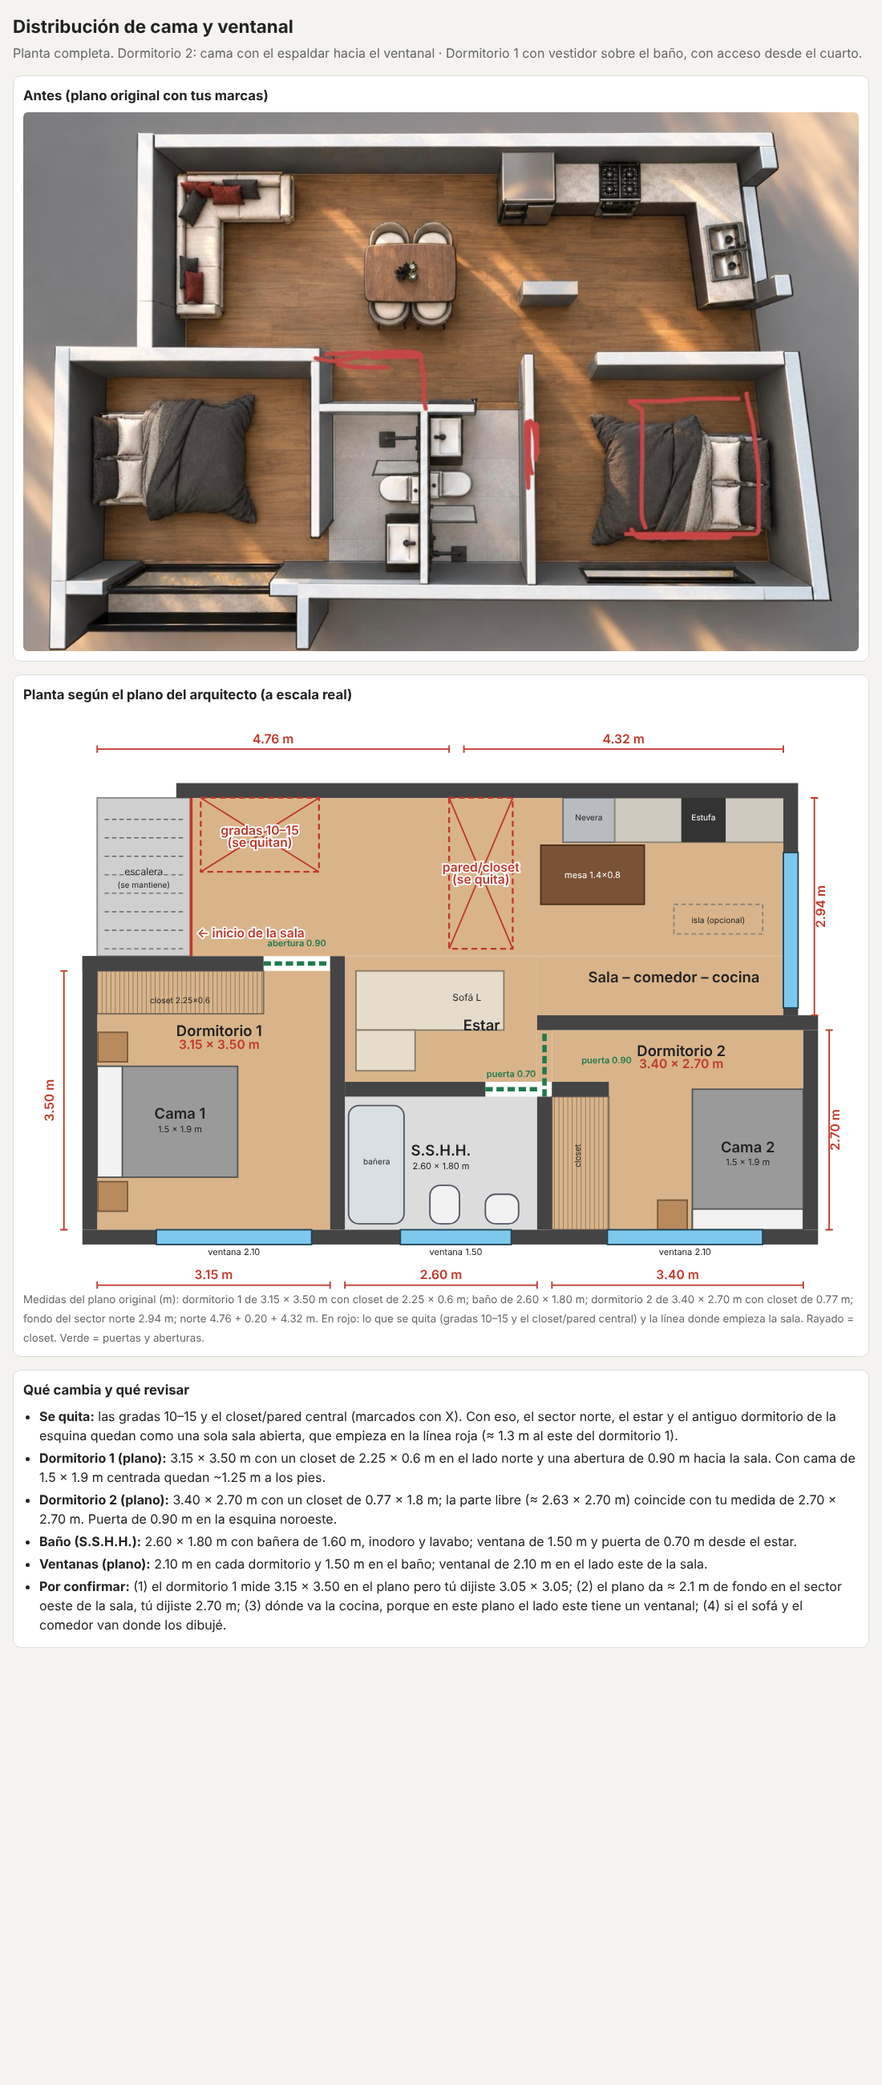
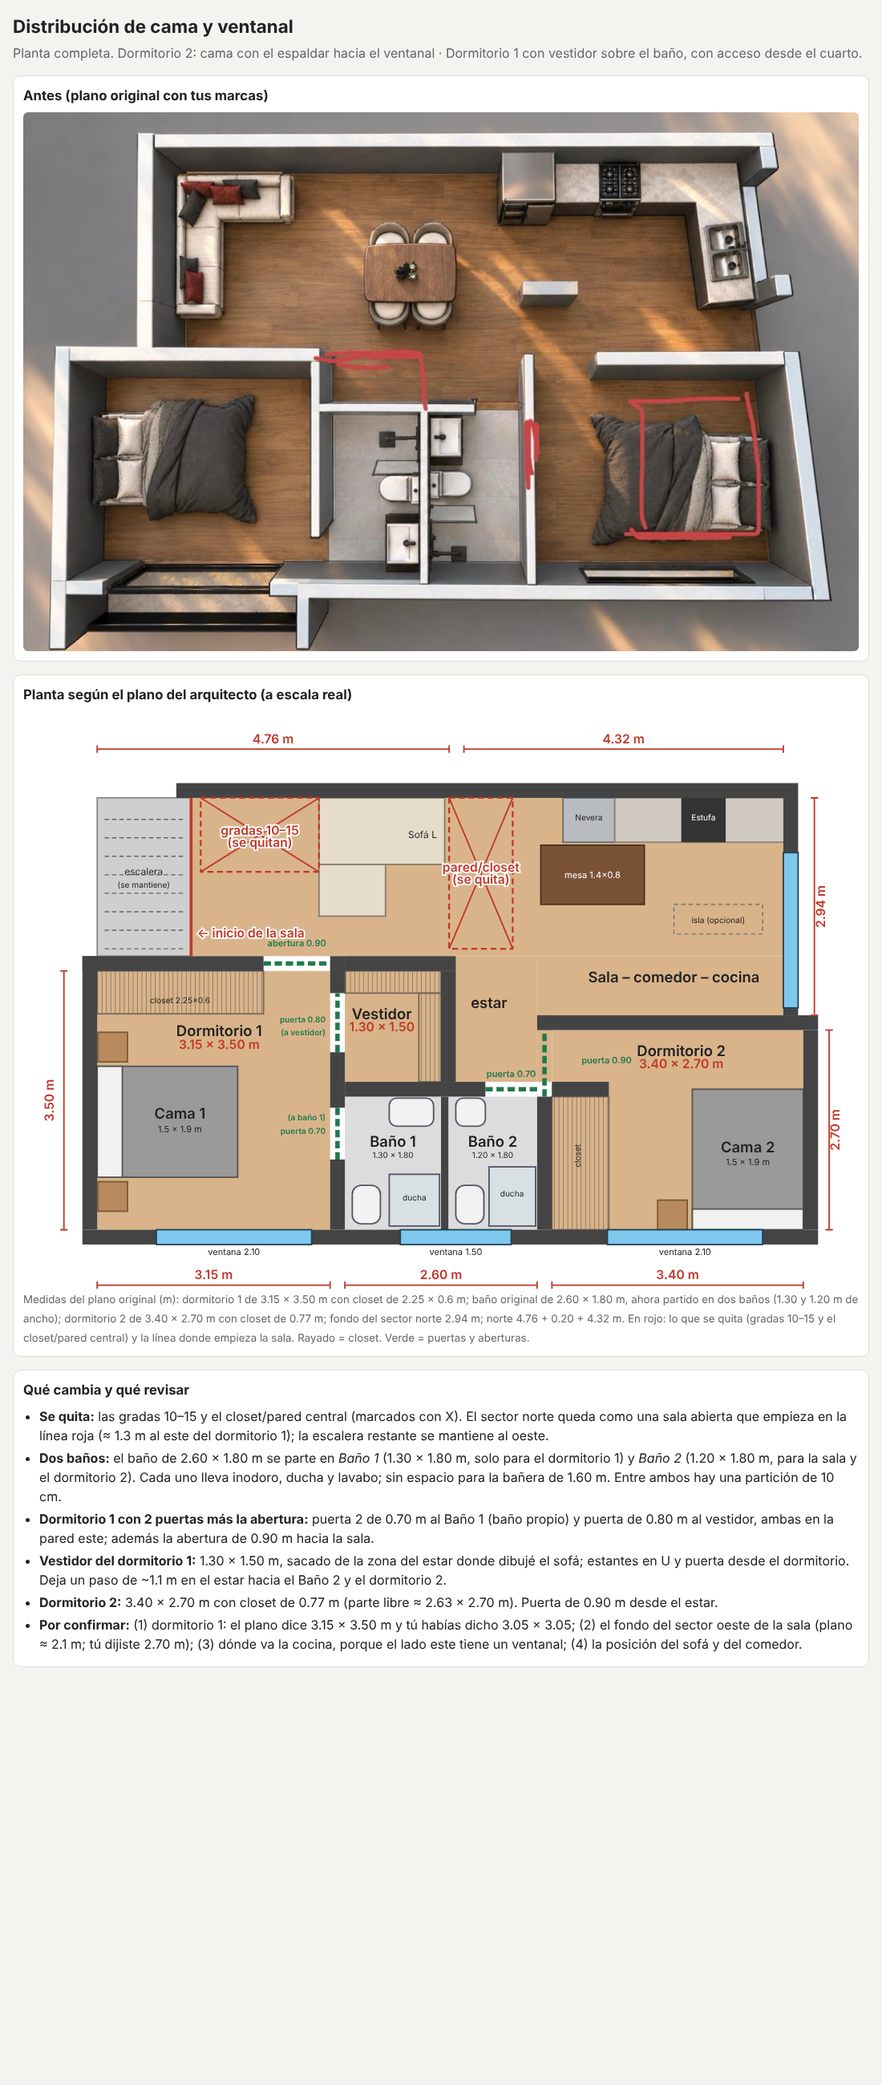
Dos baños, vestidor del dormitorio 1 desde la zona del sofá y segunda puerta del dormitorio 1 al baño
Claude-Session: https://claude.ai/code/session_01FjBeNf4WjH2KP9gBJAno4x

Changed region(s): [[0.0309, 0.6231, 0.9582, 0.81], [0.34, 0.3738, 0.5873, 0.5919]]

diff --git a/index.html b/index.html
@@ -56,7 +56,8 @@
     <svg viewBox="-100 0 1130 780" role="img" aria-label="Planta a escala real según el plano del arquitecto">
       <defs><pattern id="ach" width="6" height="6" patternUnits="userSpaceOnUse"><path d="M0 0 L0 6" stroke="#7a6a5a" stroke-width="1.6"/></pattern></defs>
       <rect x="0" y="350" width="315" height="350" fill="var(--floor)" />
-      <rect x="335" y="520" width="260" height="180" fill="var(--bath)" />
+      <rect x="335" y="520" width="130" height="180" fill="var(--bath)" />
+      <rect x="475" y="520" width="120" height="180" fill="var(--bath)" />
       <rect x="615" y="430" width="340" height="270" fill="var(--floor)" />
       <rect x="127" y="116" width="801" height="214" fill="var(--floor)" />
       <rect x="335" y="330" width="260" height="170" fill="var(--floor)" />
@@ -84,9 +85,9 @@
       <text x="880" y="595" text-anchor="middle" font-size="16" class="lbl" >Cama 2</text>
       <text x="880" y="613" text-anchor="middle" font-size="12" >1.5 × 1.9 m</text>
       <rect x="758" y="660" width="40" height="40" fill="#b98a5e" stroke="#7a5a3a" stroke-width="2" />
-      <rect x="350" y="350" width="200" height="80" fill="#e6dccb" stroke="#8a7d6a" stroke-width="2" />
-      <rect x="350" y="430" width="80" height="55" fill="#e6dccb" stroke="#8a7d6a" stroke-width="2" />
-      <text x="500" y="390" text-anchor="middle" font-size="13" >Sofá L</text>
+      <rect x="300" y="116" width="170" height="90" fill="#e6dccb" stroke="#8a7d6a" stroke-width="2" />
+      <rect x="300" y="206" width="90" height="70" fill="#e6dccb" stroke="#8a7d6a" stroke-width="2" />
+      <text x="440" y="170" text-anchor="middle" font-size="13" >Sofá L</text>
       <rect x="600" y="180" width="140" height="80" fill="#7a5236" stroke="#4a2f1a" stroke-width="2" />
       <text x="670" y="225" text-anchor="middle" font-size="12" style="fill:#fff">mesa 1.4×0.8</text>
       <rect x="630" y="116" width="70" height="60" fill="#b8bcc0" stroke="#6b7076" stroke-width="2" />
@@ -96,17 +97,28 @@
       <text x="820" y="146" text-anchor="middle" font-size="11" style="fill:#fff">Estufa</text>
       <rect x="780" y="260" width="120" height="40" fill="none" stroke="#8a847a" stroke-width="2" stroke-dasharray="6 4"/>
       <text x="840" y="285" text-anchor="middle" font-size="11" >isla (opcional)</text>
-      <rect x="340" y="532" width="75" height="160" fill="#d8e0e4" stroke="#556" stroke-width="2" rx="14"/>
-      <text x="378" y="612" text-anchor="middle" font-size="11" >bañera</text>
-      <rect x="450" y="640" width="40" height="52" fill="#f2f2f2" stroke="#556" stroke-width="2" rx="14"/>
-      <rect x="525" y="652" width="45" height="40" fill="#f2f2f2" stroke="#556" stroke-width="2" rx="14"/>
+      <rect x="345" y="640" width="38" height="52" fill="#f2f2f2" stroke="#556" stroke-width="2" rx="12"/>
+      <rect x="395" y="625" width="68" height="70" fill="#d8e0e4" stroke="#556" stroke-width="2" />
+      <text x="429" y="660" text-anchor="middle" font-size="11" >ducha</text>
+      <rect x="395" y="522" width="60" height="38" fill="#f2f2f2" stroke="#556" stroke-width="2" rx="10"/>
+      <rect x="485" y="640" width="38" height="52" fill="#f2f2f2" stroke="#556" stroke-width="2" rx="12"/>
+      <rect x="530" y="615" width="63" height="80" fill="#d8e0e4" stroke="#556" stroke-width="2" />
+      <text x="561" y="655" text-anchor="middle" font-size="11" >ducha</text>
+      <rect x="485" y="522" width="40" height="38" fill="#f2f2f2" stroke="#556" stroke-width="2" rx="10"/>
+      <rect x="335" y="350" width="130" height="30" fill="url(#ach)" stroke="#7a6a5a" stroke-width="2"/>
+      <rect x="435" y="380" width="30" height="120" fill="url(#ach)" stroke="#7a6a5a" stroke-width="2"/>
       <rect x="0" y="350" width="225" height="58" fill="url(#ach)" stroke="#7a6a5a" stroke-width="2"/>
       <text x="112" y="394" text-anchor="middle" font-size="11" >closet 2.25×0.6</text>
       <rect x="615" y="520" width="77" height="180" fill="url(#ach)" stroke="#7a6a5a" stroke-width="2"/>
       <rect x="-20" y="700" width="995" height="20" fill="var(--wall)" />
       <rect x="-20" y="330" width="20" height="370" fill="var(--wall)" />
       <rect x="-20" y="330" width="245" height="20" fill="var(--wall)" />
-      <rect x="315" y="330" width="20" height="370" fill="var(--wall)" />
+      <rect x="315" y="605" width="20" height="95" fill="var(--wall)" />
+      <rect x="315" y="460" width="20" height="75" fill="var(--wall)" />
+      <rect x="315" y="330" width="20" height="50" fill="var(--wall)" />
+      <rect x="465" y="520" width="10" height="180" fill="var(--wall)" />
+      <rect x="335" y="330" width="150" height="20" fill="var(--wall)" />
+      <rect x="465" y="350" width="20" height="150" fill="var(--wall)" />
       <rect x="335" y="500" width="190" height="20" fill="var(--wall)" />
       <rect x="595" y="520" width="20" height="180" fill="var(--wall)" />
       <rect x="615" y="500" width="77" height="20" fill="var(--wall)" />
@@ -134,20 +146,30 @@
       <line x1="225" y1="340" x2="315" y2="340" stroke="var(--ok)" stroke-width="6" stroke-dasharray="10 5"/>
       <line x1="525" y1="510" x2="595" y2="510" stroke="var(--ok)" stroke-width="6" stroke-dasharray="10 5"/>
       <line x1="605" y1="520" x2="605" y2="430" stroke="var(--ok)" stroke-width="6" stroke-dasharray="10 5"/>
+      <line x1="325" y1="605" x2="325" y2="535" stroke="var(--ok)" stroke-width="6" stroke-dasharray="10 5"/>
+      <line x1="325" y1="460" x2="325" y2="380" stroke="var(--ok)" stroke-width="6" stroke-dasharray="10 5"/>
       <text x="270" y="317" text-anchor="middle" font-size="12" style="fill:var(--ok)" font-weight="600">abertura 0.90</text>
       <text x="560" y="493" text-anchor="middle" font-size="12" style="fill:var(--ok)" font-weight="600">puerta 0.70</text>
       <text x="655" y="475" text-anchor="start" font-size="12" style="fill:var(--ok)" font-weight="600">puerta 0.90</text>
+      <text x="309" y="570" text-anchor="end" font-size="11" style="fill:var(--ok)" font-weight="600">puerta 0.70</text>
+      <text x="309" y="420" text-anchor="end" font-size="11" style="fill:var(--ok)" font-weight="600">puerta 0.80</text>
+      <text x="309" y="552" text-anchor="end" font-size="11" style="fill:var(--ok)" font-weight="600">(a baño 1)</text>
+      <text x="309" y="437" text-anchor="end" font-size="11" style="fill:var(--ok)" font-weight="600">(a vestidor)</text>
       <line x1="127" y1="330" x2="127" y2="116" stroke="var(--new)" stroke-width="4"/>
       <text x="135" y="305" text-anchor="start" font-size="12" class="dimt" style="paint-order:stroke;stroke:#fff;stroke-width:4px">← inicio de la sala</text>
       <text x="165" y="438" text-anchor="middle" font-size="17" class="lbl" >Dormitorio 1</text>
       <text x="165" y="456" text-anchor="middle" font-size="14" class="dimt" >3.15 × 3.50 m</text>
-      <text x="465" y="600" text-anchor="middle" font-size="15" class="lbl" >S.S.H.H.</text>
-      <text x="465" y="618" text-anchor="middle" font-size="12" >2.60 × 1.80 m</text>
+      <text x="400" y="588" text-anchor="middle" font-size="14" class="lbl" >Baño 1</text>
+      <text x="400" y="603" text-anchor="middle" font-size="11" >1.30 × 1.80</text>
+      <text x="535" y="588" text-anchor="middle" font-size="14" class="lbl" >Baño 2</text>
+      <text x="535" y="603" text-anchor="middle" font-size="11" >1.20 × 1.80</text>
+      <text x="385" y="415" text-anchor="middle" font-size="14" class="lbl" >Vestidor</text>
+      <text x="385" y="432" text-anchor="middle" font-size="11" class="dimt" >1.30 × 1.50</text>
       <text x="790" y="465" text-anchor="middle" font-size="17" class="lbl" >Dormitorio 2</text>
       <text x="790" y="482" text-anchor="middle" font-size="14" class="dimt" >3.40 × 2.70 m</text>
       <text x="654" y="600" text-anchor="middle" font-size="11" transform="rotate(-90 654 600)">closet</text>
       <text x="240" y="340" text-anchor="middle" font-size="1" ></text>
-      <text x="520" y="430" text-anchor="middle" font-size="17" class="lbl" >Estar</text>
+      <text x="530" y="400" text-anchor="middle" font-size="14" class="lbl" >estar</text>
       <text x="780" y="365" text-anchor="middle" font-size="17" class="lbl" >Sala – comedor – cocina</text>
       <line x1="0" y1="775" x2="315" y2="775" class="dim" />
       <line x1="0" y1="780" x2="0" y2="770" class="dim" />
@@ -182,18 +204,18 @@
       <line x1="965" y1="116" x2="975" y2="116" class="dim" />
       <text transform="translate(984,263.0) rotate(-90)" text-anchor="middle" font-size="14" class="dimt">2.94 m</text>
     </svg>
-    <small>Medidas del plano original (m): dormitorio 1 de 3.15 × 3.50 m con closet de 2.25 × 0.6 m; baño de 2.60 × 1.80 m; dormitorio 2 de 3.40 × 2.70 m con closet de 0.77 m; fondo del sector norte 2.94 m; norte 4.76 + 0.20 + 4.32 m. En rojo: lo que se quita (gradas 10–15 y el closet/pared central) y la línea donde empieza la sala. Rayado = closet. Verde = puertas y aberturas.</small>
+    <small>Medidas del plano original (m): dormitorio 1 de 3.15 × 3.50 m con closet de 2.25 × 0.6 m; baño original de 2.60 × 1.80 m, ahora partido en dos baños (1.30 y 1.20 m de ancho); dormitorio 2 de 3.40 × 2.70 m con closet de 0.77 m; fondo del sector norte 2.94 m; norte 4.76 + 0.20 + 4.32 m. En rojo: lo que se quita (gradas 10–15 y el closet/pared central) y la línea donde empieza la sala. Rayado = closet. Verde = puertas y aberturas.</small>
   </section>
 
     <section class="card">
     <h2>Qué cambia y qué revisar</h2>
     <ul>
-      <li><b>Se quita:</b> las gradas 10–15 y el closet/pared central (marcados con X). Con eso, el sector norte, el estar y el antiguo dormitorio de la esquina quedan como una sola sala abierta, que empieza en la línea roja (≈ 1.3 m al este del dormitorio 1).</li>
-      <li><b>Dormitorio 1 (plano):</b> 3.15 × 3.50 m con un closet de 2.25 × 0.6 m en el lado norte y una abertura de 0.90 m hacia la sala. Con cama de 1.5 × 1.9 m centrada quedan ~1.25 m a los pies.</li>
-      <li><b>Dormitorio 2 (plano):</b> 3.40 × 2.70 m con un closet de 0.77 × 1.8 m; la parte libre (≈ 2.63 × 2.70 m) coincide con tu medida de 2.70 × 2.70 m. Puerta de 0.90 m en la esquina noroeste.</li>
-      <li><b>Baño (S.S.H.H.):</b> 2.60 × 1.80 m con bañera de 1.60 m, inodoro y lavabo; ventana de 1.50 m y puerta de 0.70 m desde el estar.</li>
-      <li><b>Ventanas (plano):</b> 2.10 m en cada dormitorio y 1.50 m en el baño; ventanal de 2.10 m en el lado este de la sala.</li>
-      <li><b>Por confirmar:</b> (1) el dormitorio 1 mide 3.15 × 3.50 en el plano pero tú dijiste 3.05 × 3.05; (2) el plano da ≈ 2.1 m de fondo en el sector oeste de la sala, tú dijiste 2.70 m; (3) dónde va la cocina, porque en este plano el lado este tiene un ventanal; (4) si el sofá y el comedor van donde los dibujé.</li>
+      <li><b>Se quita:</b> las gradas 10–15 y el closet/pared central (marcados con X). El sector norte queda como una sala abierta que empieza en la línea roja (≈ 1.3 m al este del dormitorio 1); la escalera restante se mantiene al oeste.</li>
+      <li><b>Dos baños:</b> el baño de 2.60 × 1.80 m se parte en <i>Baño 1</i> (1.30 × 1.80 m, solo para el dormitorio 1) y <i>Baño 2</i> (1.20 × 1.80 m, para la sala y el dormitorio 2). Cada uno lleva inodoro, ducha y lavabo; sin espacio para la bañera de 1.60 m. Entre ambos hay una partición de 10 cm.</li>
+      <li><b>Dormitorio 1 con 2 puertas más la abertura:</b> puerta 2 de 0.70 m al Baño 1 (baño propio) y puerta de 0.80 m al vestidor, ambas en la pared este; además la abertura de 0.90 m hacia la sala.</li>
+      <li><b>Vestidor del dormitorio 1:</b> 1.30 × 1.50 m, sacado de la zona del estar donde dibujé el sofá; estantes en U y puerta desde el dormitorio. Deja un paso de ~1.1 m en el estar hacia el Baño 2 y el dormitorio 2.</li>
+      <li><b>Dormitorio 2:</b> 3.40 × 2.70 m con closet de 0.77 m (parte libre ≈ 2.63 × 2.70 m). Puerta de 0.90 m desde el estar.</li>
+      <li><b>Por confirmar:</b> (1) dormitorio 1: el plano dice 3.15 × 3.50 m y tú habías dicho 3.05 × 3.05; (2) el fondo del sector oeste de la sala (plano ≈ 2.1 m; tú dijiste 2.70 m); (3) dónde va la cocina, porque el lado este tiene un ventanal; (4) la posición del sofá y del comedor.</li>
     </ul>
   </section>
 </main>

diff --git a/render/generar_planta_escala_real.py b/render/generar_planta_escala_real.py
@@ -24,7 +24,7 @@ HATCH = '<pattern id="ach" width="6" height="6" patternUnits="userSpaceOnUse"><p
 NN = 584                       # cara interior norte
 # ---- pisos
 rect(0, 0, 315, 350, FLOOR)                                   # dormitorio 1 (incluye hueco de la puerta)
-rect(335, 0, 595, 180, BATH)                                  # baño
+rect(335, 0, 465, 180, BATH); rect(475, 0, 595, 180, BATH)   # dos baños
 rect(615, 0, 955, 270, FLOOR)                                 # dormitorio 2 (3.40 con el closet)
 rect(127, 370, 928, NN, FLOOR); rect(335, 200, 595, 370, FLOOR); rect(595, 290, 928, 370, FLOOR); rect(595, 200, 615, 290, FLOOR)  # sala
 # ---- escalera que se mantiene (oeste de la línea roja)
@@ -35,21 +35,30 @@ rect(0, 71, 190, 221, "#9a9a9a", "#555", 2); rect(0, 71, 34, 221, "#f2f2f2", "#5
 rect(1, 25, 41, 65, "#b98a5e", "#7a5a3a", 2); rect(1, 227, 41, 267, "#b98a5e", "#7a5a3a", 2)
 rect(805, 0, 955, 190, "#9a9a9a", "#555", 2); rect(805, 0, 955, 28, "#f2f2f2", "#555", 2); text(880, 105, "Cama 2", 16, "lbl"); text(880, 87, "1.5 × 1.9 m", 12)
 rect(758, 0, 798, 40, "#b98a5e", "#7a5a3a", 2)
-rect(350, 270, 550, 350, "#e6dccb", "#8a7d6a", 2); rect(350, 215, 430, 270, "#e6dccb", "#8a7d6a", 2); text(500, 310, "Sofá L", 13)  # sofá
+rect(300, 494, 470, 584, "#e6dccb", "#8a7d6a", 2); rect(300, 424, 390, 494, "#e6dccb", "#8a7d6a", 2); text(440, 530, "Sofá L", 13)  # sofá
 rect(600, 440, 740, 520, "#7a5236", "#4a2f1a", 2); text(670, 475, "mesa 1.4×0.8", 12, extra='style="fill:#fff"')
 rect(630, 524, 700, 584, "#b8bcc0", "#6b7076", 2); text(665, 554, "Nevera", 11)
 rect(700, 524, 940, 584, "#cfc9bf", "#8a847a", 2); rect(790, 524, 850, 584, "#333"); text(820, 554, "Estufa", 11, extra='style="fill:#fff"')
 rect(780, 400, 900, 440, "none", "#8a847a", 2, extra='stroke-dasharray="6 4"'); text(840, 415, "isla (opcional)", 11)
 # baño: bañera, inodoro, lavabo
-rect(340, 8, 415, 168, "#d8e0e4", "#556", 2, extra='rx="14"'); text(378, 88, "bañera", 11)
-rect(450, 8, 490, 60, "#f2f2f2", "#556", 2, extra='rx="14"'); rect(525, 8, 570, 48, "#f2f2f2", "#556", 2, extra='rx="14"')
+# baño 1 (de dormitorio 1): inodoro, ducha, lavabo
+rect(345, 8, 383, 60, "#f2f2f2", "#556", 2, extra='rx="12"'); rect(395, 5, 463, 75, "#d8e0e4", "#556", 2); text(429, 40, "ducha", 11)
+rect(395, 140, 455, 178, "#f2f2f2", "#556", 2, extra='rx="10"')
+# baño 2: inodoro, ducha, lavabo
+rect(485, 8, 523, 60, "#f2f2f2", "#556", 2, extra='rx="12"'); rect(530, 5, 593, 85, "#d8e0e4", "#556", 2); text(561, 45, "ducha", 11)
+rect(485, 140, 525, 178, "#f2f2f2", "#556", 2, extra='rx="10"')
+# vestidor del dormitorio 1 (sale de la zona del sofá): estantes en U
+o.append(f'<rect x="335" y="{Y(350)}" width="130" height="30" fill="url(#ach)" stroke="#7a6a5a" stroke-width="2"/>')
+o.append(f'<rect x="435" y="{Y(320)}" width="30" height="120" fill="url(#ach)" stroke="#7a6a5a" stroke-width="2"/>')
 # closets (rayados)
 o.append(f'<rect x="0" y="{Y(350)}" width="225" height="58" fill="url(#ach)" stroke="#7a6a5a" stroke-width="2"/>'); text(112, 306, "closet 2.25×0.6", 11)
 o.append(f'<rect x="615" y="{Y(180)}" width="77" height="180" fill="url(#ach)" stroke="#7a6a5a" stroke-width="2"/>')
 # ---- paredes
 W(-20, -20, 975, 0)                                          # sur
 W(-20, 0, 0, 370); W(-20, 350, 225, 370)                     # oeste dorm 1 + norte del closet
-W(315, 0, 335, 370)                                          # este dorm 1
+W(315, 0, 335, 95); W(315, 165, 335, 240); W(315, 320, 335, 370)   # este dorm 1 (puertas 95-165 baño, 240-320 vestidor)
+W(465, 0, 475, 180)                                          # partición entre los dos baños
+W(335, 350, 485, 370); W(465, 200, 485, 350)               # norte y este del vestidor
 W(335, 180, 525, 200)                                        # norte del baño (puerta 70 cm: 525-595)
 W(595, 0, 615, 180); W(615, 180, 692, 200)                   # oeste dorm 2 + norte closet
 W(595, 270, 975, 290)                                        # norte dorm 2
@@ -68,18 +77,21 @@ text(185, -34, "ventana 2.10", 12); text(485, -34, "ventana 1.50", 12); text(795
 # ---- puertas
 G = 'stroke="var(--ok)" stroke-width="6" stroke-dasharray="10 5"'
 def door(x0, y0, x1, y1): o.append(f'<line x1="{x0}" y1="{Y(y0)}" x2="{x1}" y2="{Y(y1)}" {G}/>')
-door(225, 360, 315, 360); door(525, 190, 595, 190); door(605, 180, 605, 270)
+door(225, 360, 315, 360); door(525, 190, 595, 190); door(605, 180, 605, 270); door(325, 95, 325, 165); door(325, 240, 325, 320)
 GT = 'style="fill:var(--ok)" font-weight="600"'
 text(270, 383, "abertura 0.90", 12, extra=GT); text(560, 207, "puerta 0.70", 12, extra=GT); text(655, 225, "puerta 0.90", 12, extra=GT, anchor="start")
+text(309, 130, "puerta 0.70", 11, extra=GT, anchor="end"); text(309, 280, "puerta 0.80", 11, extra=GT, anchor="end")
+text(309, 148, "(a baño 1)", 11, extra=GT, anchor="end"); text(309, 263, "(a vestidor)", 11, extra=GT, anchor="end")
 # ---- línea roja: inicio de la sala
 o.append(f'<line x1="127" y1="{Y(370)}" x2="127" y2="{Y(NN)}" stroke="var(--new)" stroke-width="4"/>')
 text(135, 395, "← inicio de la sala", 12, "dimt", anchor="start", extra='style="paint-order:stroke;stroke:#fff;stroke-width:4px"')
 # ---- rótulos
 text(165, 262, "Dormitorio 1", 17, "lbl"); text(165, 244, "3.15 × 3.50 m", 14, "dimt")
-text(465, 100, "S.S.H.H.", 15, "lbl"); text(465, 82, "2.60 × 1.80 m", 12)
+text(400, 112, "Baño 1", 14, "lbl"); text(400, 97, "1.30 × 1.80", 11); text(535, 112, "Baño 2", 14, "lbl"); text(535, 97, "1.20 × 1.80", 11)
+text(385, 285, "Vestidor", 14, "lbl"); text(385, 268, "1.30 × 1.50", 11, "dimt")
 text(790, 235, "Dormitorio 2", 17, "lbl"); text(790, 218, "3.40 × 2.70 m", 14, "dimt"); text(654, 100, "closet", 11, extra='transform="rotate(-90 654 %s)"' % Y(100))
 text(240, 360-0, "", 1)
-text(520, 270, "Estar", 17, "lbl"); text(780, 335, "Sala – comedor – cocina", 17, "lbl")
+text(530, 300, "estar", 14, "lbl"); text(780, 335, "Sala – comedor – cocina", 17, "lbl")
 # ---- cotas reales
 hdim(0, 315, -75, "3.15 m"); hdim(335, 595, -75, "2.60 m"); hdim(615, 955, -75, "3.40 m")
 hdim(0, 476, 650, "4.76 m"); hdim(496, 928, 650, "4.32 m")
@@ -91,18 +103,18 @@ s = open(p, encoding="utf-8").read()
 a = s.index('<section class="card">\n    <h2>Planta según el plano del arquitecto (a escala real)</h2>')
 b = s.index('</section>', a) + len('</section>')
 new = ('<section class="card">\n    <h2>Planta según el plano del arquitecto (a escala real)</h2>\n    ' + svg +
-       '\n    <small>Medidas del plano original (m): dormitorio 1 de 3.15 × 3.50 m con closet de 2.25 × 0.6 m; baño de 2.60 × 1.80 m; dormitorio 2 de 3.40 × 2.70 m con closet de 0.77 m; '
+       '\n    <small>Medidas del plano original (m): dormitorio 1 de 3.15 × 3.50 m con closet de 2.25 × 0.6 m; baño original de 2.60 × 1.80 m, ahora partido en dos baños (1.30 y 1.20 m de ancho); dormitorio 2 de 3.40 × 2.70 m con closet de 0.77 m; '
        'fondo del sector norte 2.94 m; norte 4.76 + 0.20 + 4.32 m. En rojo: lo que se quita (gradas 10–15 y el closet/pared central) y la línea donde empieza la sala. '
        'Rayado = closet. Verde = puertas y aberturas.</small>\n  </section>')
 s = s[:a] + new + s[b:]
 a2 = s.index('<h2>Qué cambia y qué revisar</h2>'); u0 = s.index('<ul>', a2); u1 = s.index('</ul>', u0) + 5
 notas = '''<ul>
-      <li><b>Se quita:</b> las gradas 10–15 y el closet/pared central (marcados con X). Con eso, el sector norte, el estar y el antiguo dormitorio de la esquina quedan como una sola sala abierta, que empieza en la línea roja (≈ 1.3 m al este del dormitorio 1).</li>
-      <li><b>Dormitorio 1 (plano):</b> 3.15 × 3.50 m con un closet de 2.25 × 0.6 m en el lado norte y una abertura de 0.90 m hacia la sala. Con cama de 1.5 × 1.9 m centrada quedan ~1.25 m a los pies.</li>
-      <li><b>Dormitorio 2 (plano):</b> 3.40 × 2.70 m con un closet de 0.77 × 1.8 m; la parte libre (≈ 2.63 × 2.70 m) coincide con tu medida de 2.70 × 2.70 m. Puerta de 0.90 m en la esquina noroeste.</li>
-      <li><b>Baño (S.S.H.H.):</b> 2.60 × 1.80 m con bañera de 1.60 m, inodoro y lavabo; ventana de 1.50 m y puerta de 0.70 m desde el estar.</li>
-      <li><b>Ventanas (plano):</b> 2.10 m en cada dormitorio y 1.50 m en el baño; ventanal de 2.10 m en el lado este de la sala.</li>
-      <li><b>Por confirmar:</b> (1) el dormitorio 1 mide 3.15 × 3.50 en el plano pero tú dijiste 3.05 × 3.05; (2) el plano da ≈ 2.1 m de fondo en el sector oeste de la sala, tú dijiste 2.70 m; (3) dónde va la cocina, porque en este plano el lado este tiene un ventanal; (4) si el sofá y el comedor van donde los dibujé.</li>
+      <li><b>Se quita:</b> las gradas 10–15 y el closet/pared central (marcados con X). El sector norte queda como una sala abierta que empieza en la línea roja (≈ 1.3 m al este del dormitorio 1); la escalera restante se mantiene al oeste.</li>
+      <li><b>Dos baños:</b> el baño de 2.60 × 1.80 m se parte en <i>Baño 1</i> (1.30 × 1.80 m, solo para el dormitorio 1) y <i>Baño 2</i> (1.20 × 1.80 m, para la sala y el dormitorio 2). Cada uno lleva inodoro, ducha y lavabo; sin espacio para la bañera de 1.60 m. Entre ambos hay una partición de 10 cm.</li>
+      <li><b>Dormitorio 1 con 2 puertas más la abertura:</b> puerta 2 de 0.70 m al Baño 1 (baño propio) y puerta de 0.80 m al vestidor, ambas en la pared este; además la abertura de 0.90 m hacia la sala.</li>
+      <li><b>Vestidor del dormitorio 1:</b> 1.30 × 1.50 m, sacado de la zona del estar donde dibujé el sofá; estantes en U y puerta desde el dormitorio. Deja un paso de ~1.1 m en el estar hacia el Baño 2 y el dormitorio 2.</li>
+      <li><b>Dormitorio 2:</b> 3.40 × 2.70 m con closet de 0.77 m (parte libre ≈ 2.63 × 2.70 m). Puerta de 0.90 m desde el estar.</li>
+      <li><b>Por confirmar:</b> (1) dormitorio 1: el plano dice 3.15 × 3.50 m y tú habías dicho 3.05 × 3.05; (2) el fondo del sector oeste de la sala (plano ≈ 2.1 m; tú dijiste 2.70 m); (3) dónde va la cocina, porque el lado este tiene un ventanal; (4) la posición del sofá y del comedor.</li>
     </ul>'''
 s = s[:u0] + notas + s[u1:]
 open(p, "w", encoding="utf-8").write(s)
